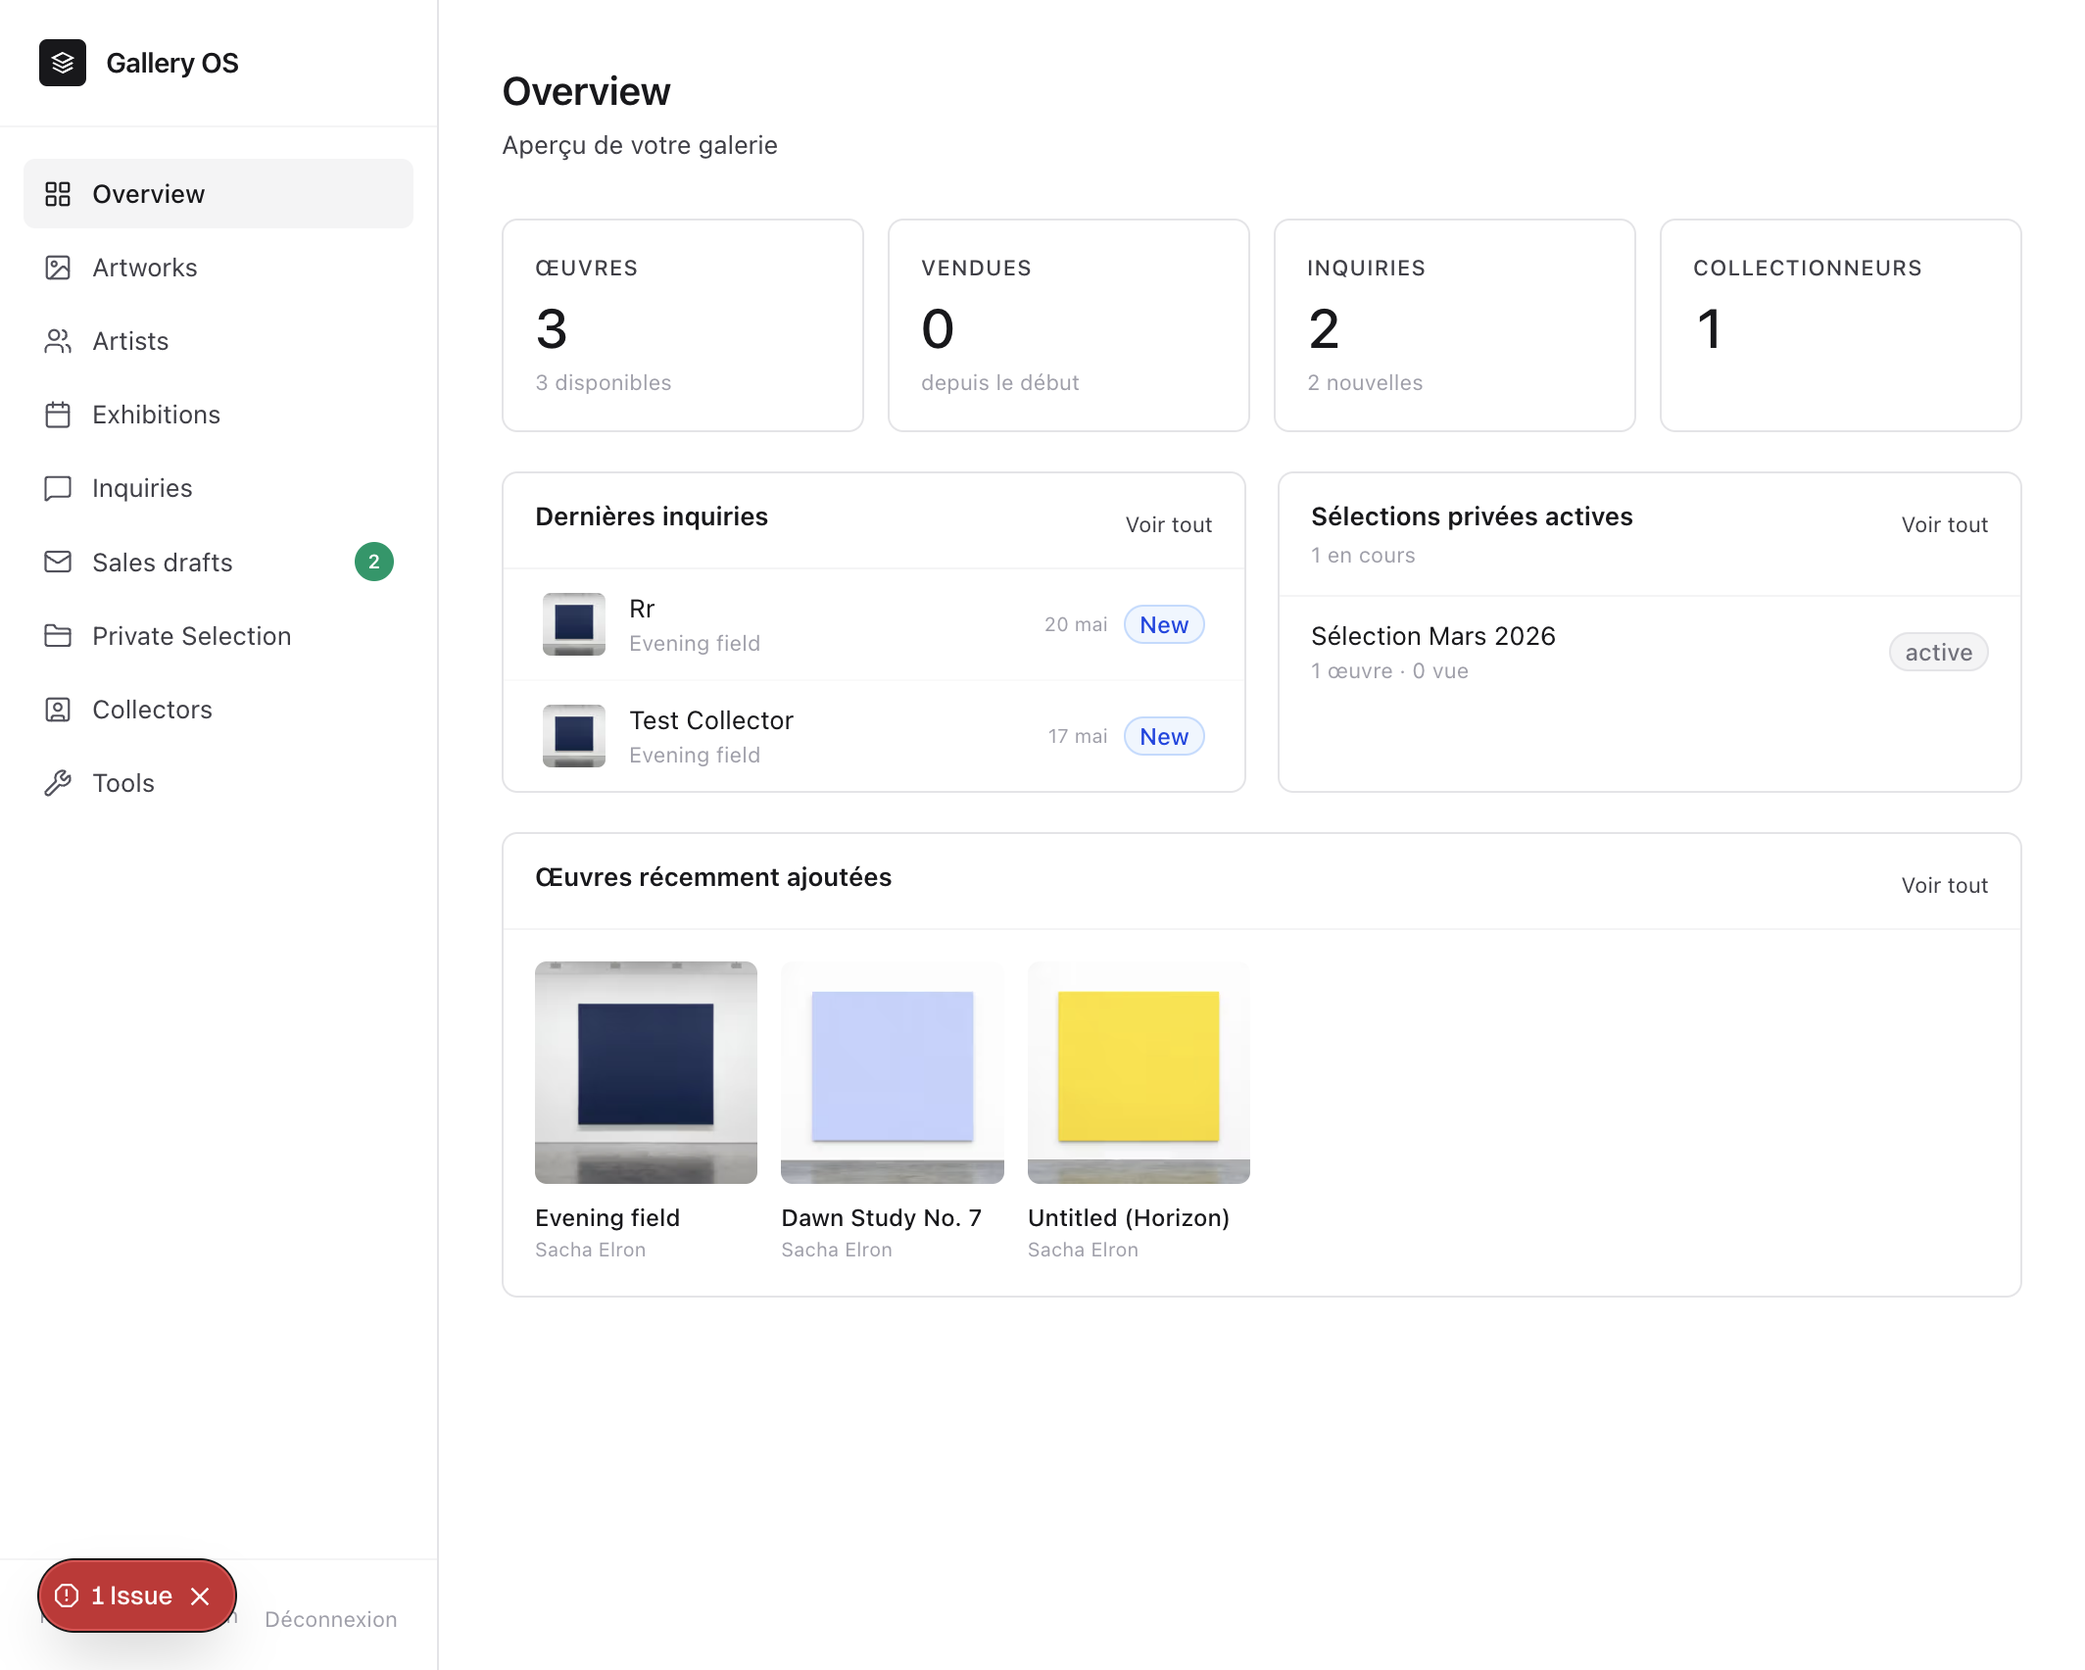
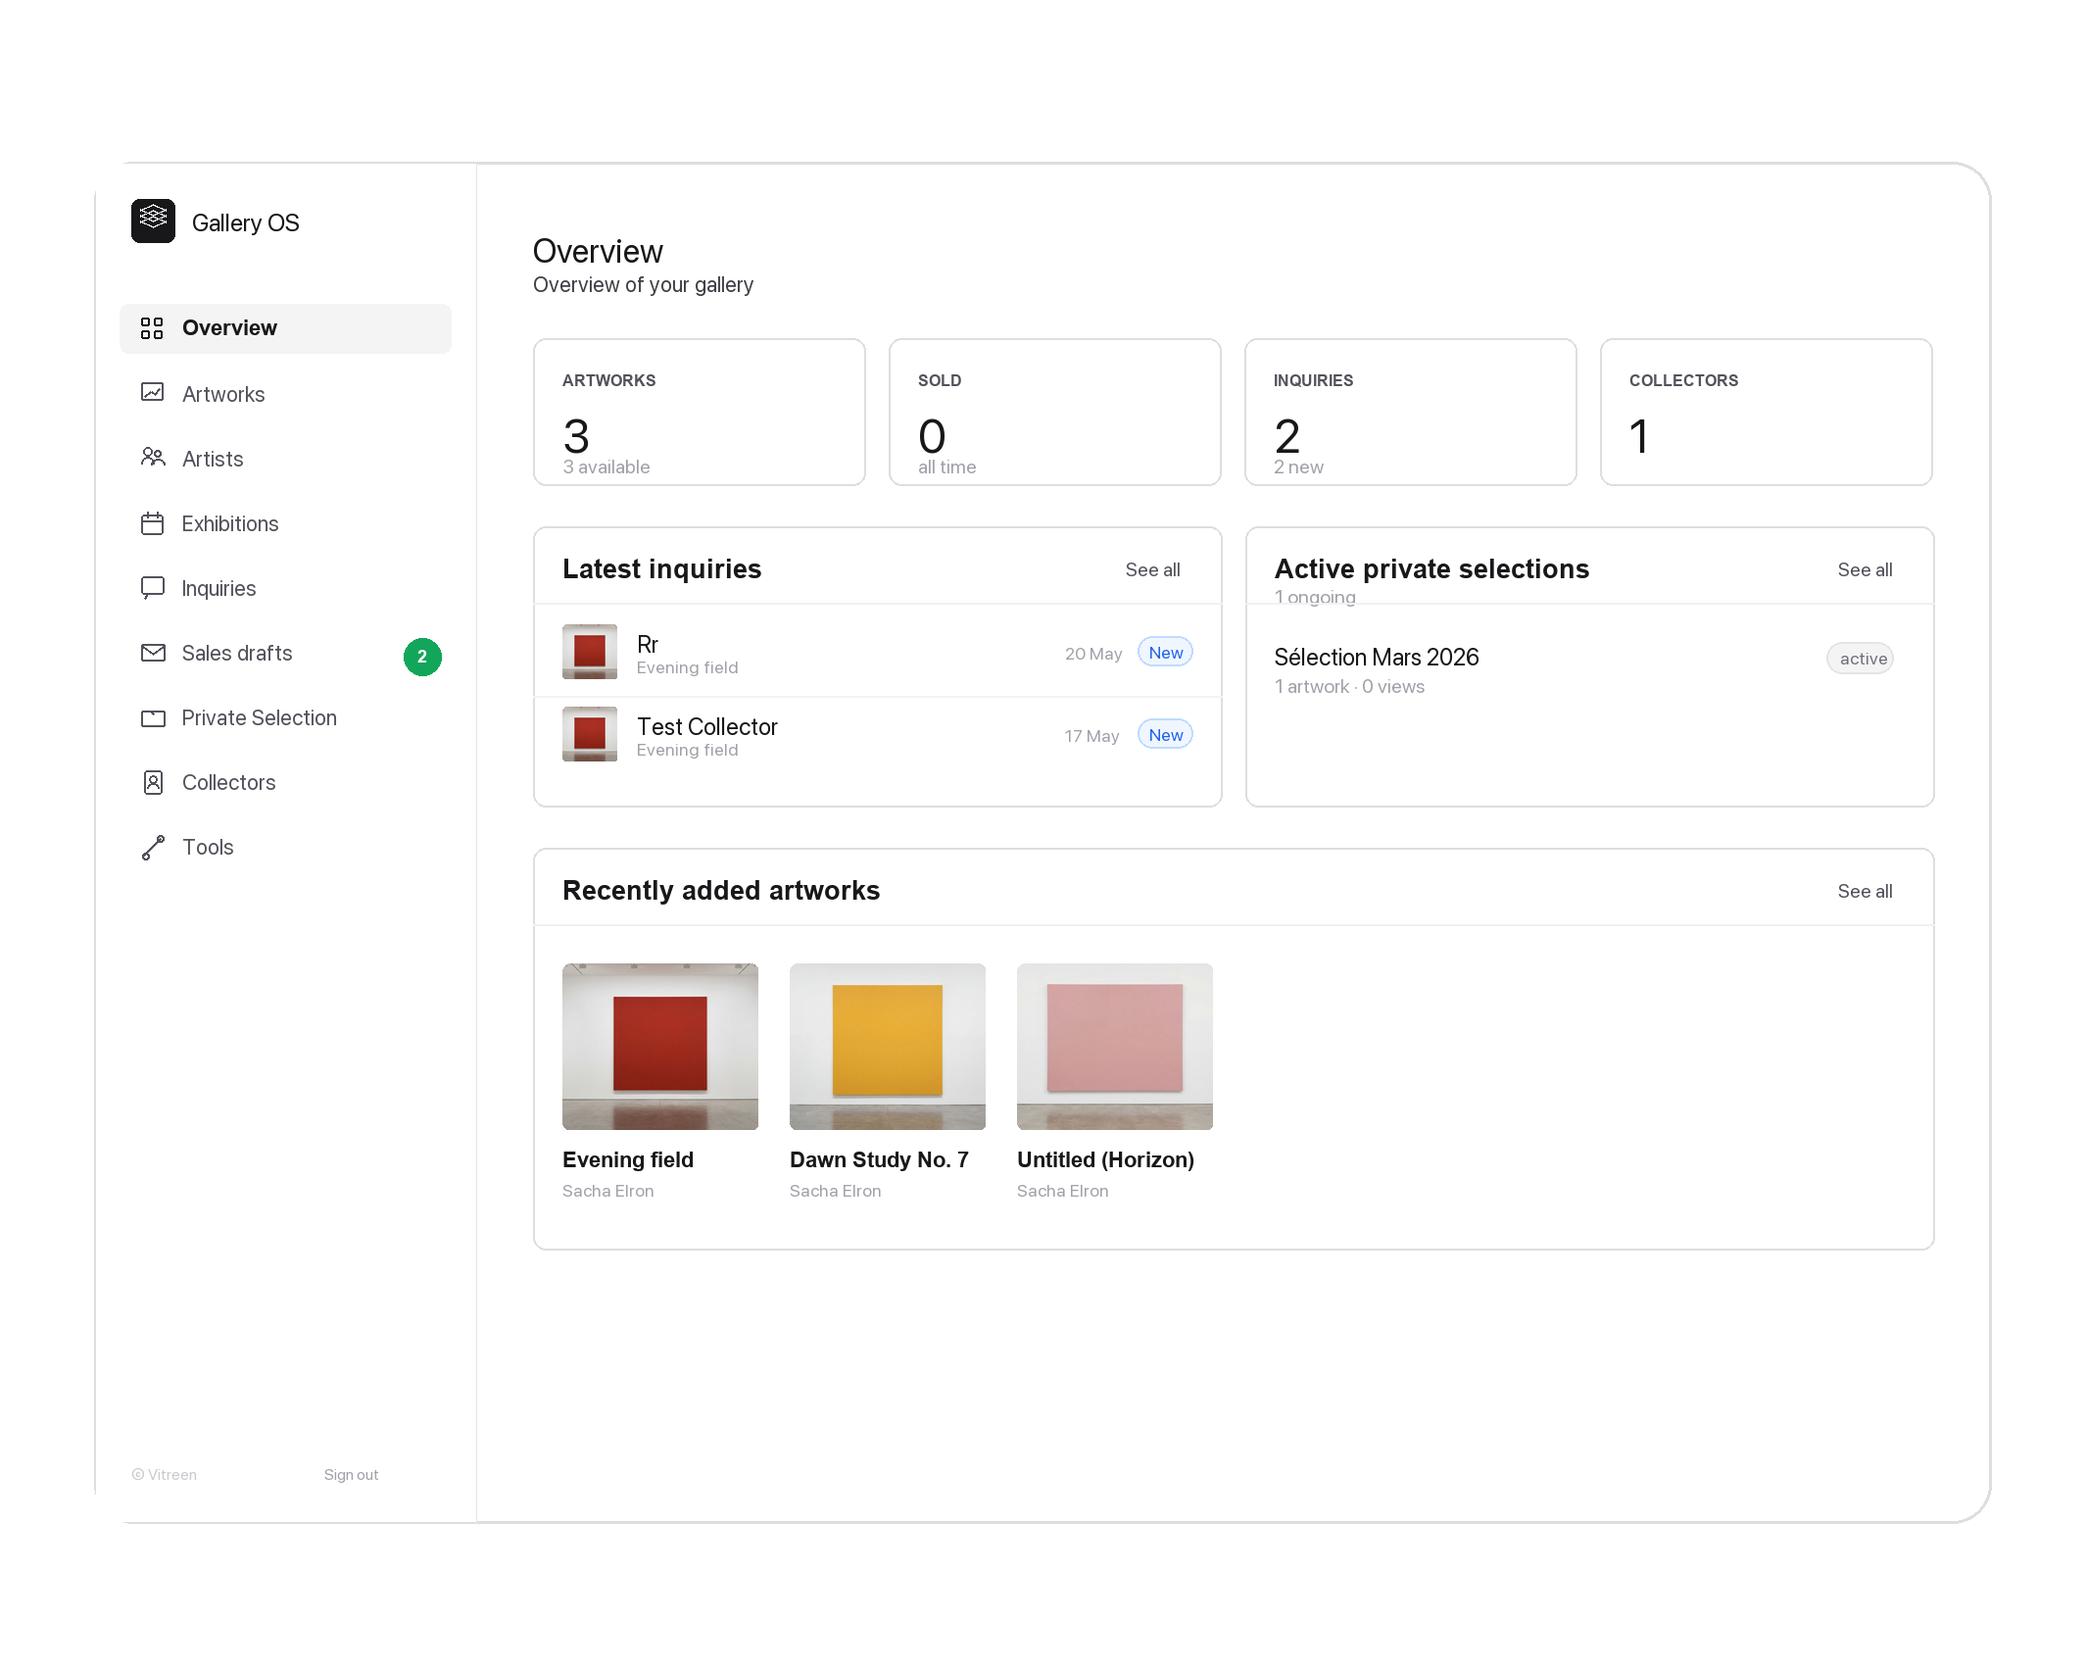
Refine Gallery OS visuals

diff --git a/src/projects.js b/src/projects.js
@@ -708,7 +708,11 @@ export const projects = [
             tag: "Insight",
             title: "L'intégration crée plus de valeur que la migration",
             text: "Les galeries disposent déjà de CRM, inventaires, espaces de stockage et outils de communication. Avec des équipes réduites et des workflows établis, l'enjeu n'est pas d'introduire un nouveau logiciel mais de rendre les systèmes existants plus cohérents et mieux connectés.",
-            media: "/Gallery OS/frame1.png",
+            type: "diptych",
+            images: [
+              { src: "/Gallery OS/frame2.png", alt: "Gallery OS — import et connexion d'inventaire" },
+              { src: "/Gallery OS/frame1.png", alt: "Gallery OS — setup de galerie" },
+            ],
           },
           {
             tag: "Stratégie produit",
@@ -733,32 +737,34 @@ export const projects = [
           // Les verbatims d'interviews ne sont pas inclus ici : aucun extrait vérifié n'a été fourni pour cette section Gallery OS.
           {
             tag: "Solution",
-            title: "Quatre surfaces produit autour d'une même colonne œuvre",
-            text: "L'interface est organisée autour du travail réel d'une galerie : maintenir l'inventaire, préparer des sélections, communiquer avec les collectionneurs et publier depuis la même source.",
-            type: "mockup-grid",
-            mockups: [
-              {
-                step: "01",
-                title: "Sélections privées",
-                caption: "La galerie prépare un ensemble ciblé d'œuvres pour un collectionneur et le partage sans reconstruire le contenu manuellement.",
-                media: "/vitreen/gallery-os-private-selection.png",
-              },
-              {
-                step: "02",
-                title: "Couche site web",
-                caption: "Les sélections peuvent devenir des viewing rooms ou des pages collectionneur sans se détacher de l'inventaire source.",
-                media: "/vitreen/gallery-os-viewing-room-studio.png",
-              },
-            ],
-          },
-          {
-            tag: "Intégration Gmail",
-            title: "De l'inventaire à l'email, sans ressaisie",
-            text: "La fiche œuvre ouverte dans Gallery OS (à gauche) est insérée telle quelle dans un email via l'add-on Gmail (à droite) — mêmes données, aucun copier-coller. La source de vérité surgit dans l'outil que la galerie utilise déjà.",
+            title: "Une même fiche œuvre, plusieurs sorties",
+            text: "Gallery OS part d'une fiche œuvre structurée, puis la réutilise dans les surfaces où la galerie travaille déjà : email, sélection privée et site web.",
             type: "image-pair",
-            images: [
-              { src: "/Gallery OS/fiche oeuvre.png", alt: "Fiche œuvre Gallery OS" },
-              { src: "/Gallery OS/Gmail Extension chrome.mov", alt: "Add-on Gmail : la fiche œuvre Evening field insérée dans un email.", noBar: true },
+            flows: [
+              {
+                label: "01 · Intégration Gmail",
+                text: "De l'inventaire à l'email, sans ressaisie — la fiche œuvre est insérée telle quelle dans un message, mêmes données, aucun copier-coller.",
+                images: [
+                  { src: "/Gallery OS/fiche oeuvre.png", alt: "Fiche œuvre Gallery OS" },
+                  { src: "/Gallery OS/Gmail Extension chrome.mov", alt: "Add-on Gmail : la fiche œuvre Evening field insérée dans un email.", noBar: true },
+                ],
+              },
+              {
+                label: "02 · Sélection privée",
+                text: "De la fiche œuvre à une sélection collector — les mêmes informations alimentent un espace partagé, sans recréer le contenu à la main.",
+                images: [
+                  { src: "/Gallery OS/fiche oeuvre.png", alt: "Fiche œuvre Gallery OS" },
+                  { src: "/vitreen/gallery-os-private-selection.png", alt: "Sélection privée alimentée par la fiche œuvre Gallery OS" },
+                ],
+              },
+              {
+                label: "03 · Website",
+                text: "De l'inventaire au site web — les œuvres sélectionnées peuvent être publiées sans dupliquer les contenus ni perdre le lien avec la source.",
+                images: [
+                  { src: "/Gallery OS/fiche oeuvre.png", alt: "Fiche œuvre Gallery OS" },
+                  { src: "/vitreen/gallery-os-viewing-room-studio.png", alt: "Surface website alimentée par l'inventaire Gallery OS" },
+                ],
+              },
             ],
           },
         ],

diff --git a/src/ProjectPage.jsx b/src/ProjectPage.jsx
@@ -1116,7 +1116,7 @@ const GoscIconArchive = () => (
 
 const GOSC_SURFACES = [
   { top: 70, Icon: GoscIconColumns, title: "Sélections privées", sub: "pour un collectionneur" },
-  { top: 150, Icon: GoscIconGrid, title: "Viewing room", sub: "lien privé partageable" },
+  { top: 150, Icon: GoscIconGrid, title: "Viewing room", sub: "lien privé · PDF partageable" },
   { top: 230, Icon: GoscIconGlobe, title: "Inquiries", sub: "réponse + œuvres liées" },
   { top: 310, Icon: GoscIconMail, title: "Gmail", sub: "insérer l'œuvre dans un email" },
 ];
@@ -1662,6 +1662,14 @@ function HangingUseCaseModal({ project, liveUrl, onClose }) {
                   <div className="vitreen-module-media vitreen-module-media--stack">
                     <VitreenStackFlow items={module.items} />
                   </div>
+                ) : module.type === "diptych" ? (
+                  <div className="gos-diptych">
+                    {module.images.map((img) => (
+                      <figure className="gos-diptych-frame" key={img.src}>
+                        <img src={img.src} alt={img.alt} loading="lazy" />
+                      </figure>
+                    ))}
+                  </div>
                 ) : module.type === "mockup-grid" ? (
                   <GosMockupDeck mockups={module.mockups} />
                 ) : module.type === "vitreen-canvas" ? (
@@ -1669,27 +1677,39 @@ function HangingUseCaseModal({ project, liveUrl, onClose }) {
                     <VitreenCirculationCanvas />
                   </div>
                 ) : module.type === "image-pair" ? (
-                  <div className="gos-pair">
-                    {module.images.map((img) => (
-                      <figure
-                        className={`gos-pair-frame${img.noBar ? " gos-pair-frame--no-bar" : ""}`}
-                        key={img.src ?? img.component}
-                      >
-                        {!img.noBar && (
-                          <div className="gos-mockup-bar" aria-hidden="true">
-                            <span />
-                            <span />
-                            <span />
+                  <div className="gos-pair-block">
+                    {(module.flows ?? [{ ...module.mediaIntro, images: module.images }]).map((flow) => (
+                      <div className="gos-pair-section" key={flow.label}>
+                        {flow.label && (
+                          <div className="gos-pair-intro">
+                            <span className="gos-pair-intro-label">{flow.label}</span>
+                            <p className="gos-pair-intro-text">{flow.text}</p>
                           </div>
                         )}
-                        {img.component === "artwork-detail" ? (
-                          <GalleryOsArtworkDetail />
-                        ) : /\.(mp4|mov|webm)$/i.test(img.src) ? (
-                          <video src={img.src} autoPlay loop muted playsInline loading="lazy" />
-                        ) : (
-                          <img src={img.src} alt={img.alt} loading="lazy" />
-                        )}
-                      </figure>
+                        <div className="gos-pair">
+                          {flow.images.map((img) => (
+                            <figure
+                              className={`gos-pair-frame${img.noBar ? " gos-pair-frame--no-bar" : ""}`}
+                              key={img.src ?? img.component}
+                            >
+                              {!img.noBar && (
+                                <div className="gos-mockup-bar" aria-hidden="true">
+                                  <span />
+                                  <span />
+                                  <span />
+                                </div>
+                              )}
+                              {img.component === "artwork-detail" ? (
+                                <GalleryOsArtworkDetail />
+                              ) : /\.(mp4|mov|webm)$/i.test(img.src) ? (
+                                <video src={img.src} autoPlay loop muted playsInline />
+                              ) : (
+                                <img src={img.src} alt={img.alt} loading="lazy" />
+                              )}
+                            </figure>
+                          ))}
+                        </div>
+                      </div>
                     ))}
                   </div>
                 ) : module.cards ? (

diff --git a/styles.css b/styles.css
@@ -3755,6 +3755,35 @@ a {
   height: auto;
 }
 
+/* ── Insight — diptyque d'images ─────────────────────────────────────── */
+.gos-diptych {
+  display: grid;
+  grid-template-columns: 1fr 1fr;
+  gap: clamp(1.1rem, 2.4vw, 1.75rem);
+  width: min(100%, 55rem);
+  margin: 0 auto;
+}
+
+.gos-diptych-frame {
+  margin: 0;
+  overflow: hidden;
+  border: 0;
+  border-radius: 16px;
+  background: #f5f5f3;
+  aspect-ratio: 4 / 5;
+}
+
+.gos-diptych-frame img {
+  display: block;
+  width: 100%;
+  height: 100%;
+  object-fit: cover;
+}
+
+.gos-diptych-frame:nth-child(2) img {
+  transform: scale(1.02);
+}
+
 /* ── Architecture produit — grille 2×2 de mockups ───────────────────── */
 .gos-mockup-grid {
   display: grid;
@@ -3765,11 +3794,46 @@ a {
 }
 
 /* ── Intégration Gmail — paire d'images sans légende ─────────────────── */
+.gos-pair-block {
+  width: min(100%, 55rem);
+  margin: 0 auto;
+}
+
+.gos-pair-section + .gos-pair-section {
+  margin-top: clamp(4rem, 8vw, 6.5rem);
+}
+
+.gos-pair-intro {
+  margin: 0 0 clamp(1rem, 2vw, 1.5rem);
+  padding-top: 0;
+}
+
+.gos-pair-intro-label {
+  display: inline-block;
+  padding: 0.28rem 0.55rem;
+  border-radius: 6px;
+  background: #f3f3f1;
+  font-size: 0.7rem;
+  font-weight: 600;
+  letter-spacing: 0.02em;
+  color: var(--color-text-muted, #6b6b68);
+  margin-bottom: 0.65rem;
+}
+
+.gos-pair-intro-text {
+  margin: 0;
+  max-width: 42rem;
+  padding-left: 0.55rem;
+  font-size: 0.95rem;
+  line-height: 1.55;
+  color: var(--color-text-secondary, #57575a);
+}
+
 .gos-pair {
   display: grid;
   grid-template-columns: 1fr 1fr;
   gap: clamp(1.1rem, 2.4vw, 1.75rem);
-  width: min(100%, 55rem);
+  width: 100%;
   margin: 0 auto;
   align-items: stretch;
 }
@@ -3806,6 +3870,10 @@ a {
 }
 
 @media (max-width: 640px) {
+  .gos-diptych {
+    grid-template-columns: 1fr;
+  }
+
   .gos-pair {
     grid-template-columns: 1fr;
   }
@@ -7673,7 +7741,8 @@ a {
 }
 
 .gosc-card--archive {
-  background: #faf9f6;
+  background: rgba(255, 255, 255, 0.72);
+  border-color: #deddd8;
   border-style: dashed;
   box-shadow: none;
 }
@@ -7706,6 +7775,52 @@ a {
 .gosc-card--archive .gosc-name,
 .gosc-card--archive .gosc-sub {
   color: var(--color-text-muted);
+}
+
+.gosc-card--archive .gosc-label {
+  margin-bottom: 12px;
+  color: #171716;
+  font-size: 12px;
+  font-weight: 500;
+}
+
+.gosc-card--archive .gosc-row {
+  align-items: flex-start;
+  gap: 10px;
+  margin-bottom: 12px !important;
+}
+
+.gosc-card--archive .gosc-th--neutral {
+  width: 34px;
+  height: 34px;
+  border: 1px solid #e6e2d9;
+  border-radius: 10px;
+  background: #f3f0e8;
+  color: #7c7a70;
+}
+
+.gosc-card--archive .gosc-name {
+  margin-top: 1px;
+  color: #171716;
+  font-size: 13px;
+  font-weight: 500;
+  line-height: 1.15;
+}
+
+.gosc-card--archive .gosc-sub {
+  margin-top: 3px;
+  font-size: 11.5px;
+  line-height: 1.2;
+}
+
+.gosc-card--archive .gosc-chip {
+  display: inline;
+  padding: 0;
+  border-radius: 0;
+  background: transparent;
+  color: #8a887f;
+  font-size: 10.5px;
+  line-height: 1.3;
 }
 
 .gosc-fiche {
@@ -7787,7 +7902,7 @@ a {
 }
 
 .gosc-artwork-mini {
-  border: 1px solid #e8e7e3;
+  border: 0.5px solid #eeeeea;
   border-radius: 10px;
   overflow: hidden;
   margin-bottom: 10px;
@@ -7823,7 +7938,7 @@ a {
 }
 
 .gosc-artwork-mini-title strong {
-  font-weight: 600;
+  font-weight: 500;
 }
 
 .gosc-artwork-mini-footer {
@@ -7839,12 +7954,12 @@ a {
 }
 
 .gosc-artwork-mini-badge {
-  font-size: 10px;
+  font-size: 8.5px;
   color: #16a34a;
   background: #f0fdf4;
-  border: 1px solid #bbf7d0;
+  border: 0.5px solid #bbf7d0;
   border-radius: 20px;
-  padding: 2px 7px;
+  padding: 1.5px 5.5px;
   font-weight: 500;
 }
 
